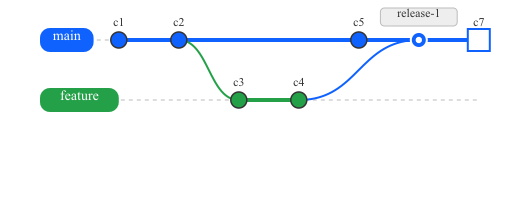
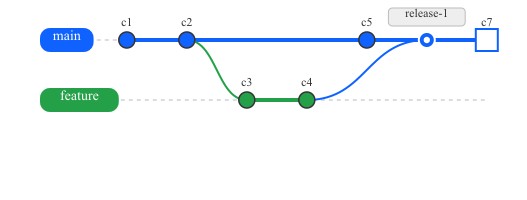
gitgraph: first-commit clearance, HIGHLIGHT + tag breathing room
Two reviewer-flagged issues:

1. Critical #1 — first commit's X origin overlapped the longest
   branch pill. With the pre-PR plain-text label, `2*branchLabelPadX`
   was slack before the first commit; the pill now *consumes* that
   slack and the dot penetrated the pill by up to 8px when the first
   commit sat on the longest-named branch. Added commitRadius to
   originX so the dot always clears the pill.
2. Important #3 — HIGHLIGHT commits are squares reaching ±11px from
   center, but the default `tagGap=14` left only 3px of visual
   breathing room under a tag callout sitting on a HIGHLIGHT. Widened
   the gap to `highlightRadius + labelGap` for that one case by
   promoting the gap to a parameter of tagCallout.

Examples regenerated (visual difference limited to a few px of
first-commit offset).

diff --git a/pkg/renderer/gitgraph/renderer.go b/pkg/renderer/gitgraph/renderer.go
@@ -52,7 +52,11 @@ func Render(d *diagram.GitGraphDiagram, opts *Options) ([]byte, error) {
 		laneOf[b] = i
 	}
 
-	originX := marginX + branchGutterW(d.Branches, fontSize) + 2*branchLabelPadX
+	// `2*branchLabelPadX` covers the pill's own horizontal padding;
+	// `commitRadius` keeps the first commit's dot clear of the pill
+	// even when that commit sits on the branch with the longest name
+	// (otherwise the dot's left edge would overlap the pill's right).
+	originX := marginX + branchGutterW(d.Branches, fontSize) + 2*branchLabelPadX + commitRadius
 
 	cx := make(map[string]float64, len(d.Commits))
 	cy := make(map[string]float64, len(d.Commits))
@@ -164,7 +168,15 @@ func Render(d *diagram.GitGraphDiagram, opts *Options) ([]byte, error) {
 		// tag as a rounded callout above the commit, the commit id as
 		// plain text below.
 		if c.Tag != "" {
-			children = append(children, tagCallout(c.Tag, x, y, fontSize, th)...)
+			// HIGHLIGHT commits are squares reaching ±highlightRadius from
+			// the center; the default tagGap (14) leaves only 3px over a
+			// highlight square. Widen the gap for those so the callout
+			// doesn't kiss the glyph.
+			gap := tagGap
+			if c.Type == diagram.GitCommitHighlight {
+				gap = highlightRadius + labelGap
+			}
+			children = append(children, tagCallout(c.Tag, x, y, gap, fontSize, th)...)
 		} else if c.ID != "" {
 			children = append(children, &text{
 				X:        svgFloat(x),
@@ -258,13 +270,13 @@ func commitDot(c diagram.GitCommit, x, y float64, color string, th Theme) []any 
 // tagCallout draws a small rounded rect above (x,y) filled with the
 // theme's tag color, containing the tag text. mmdc shows the tag as a
 // floating callout distinct from the plain commit-id text.
-func tagCallout(tag string, x, y, fontSize float64, th Theme) []any {
+func tagCallout(tag string, x, y, gap, fontSize float64, th Theme) []any {
 	tagFont := fontSize - 2
 	tw := textmeasure.EstimateWidth(tag, tagFont)
 	w := tw + 2*tagPadX
 	h := tagFont + 2*tagPadY
 	bx := x - w/2
-	by := y - tagGap - h
+	by := y - gap - h
 	return []any{
 		&rect{
 			X: svgFloat(bx), Y: svgFloat(by),
